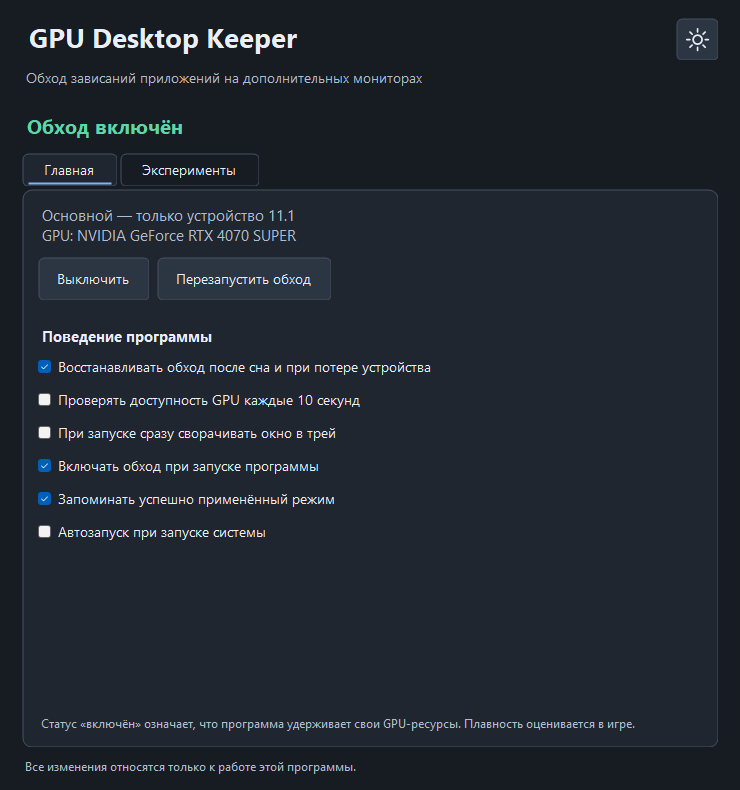
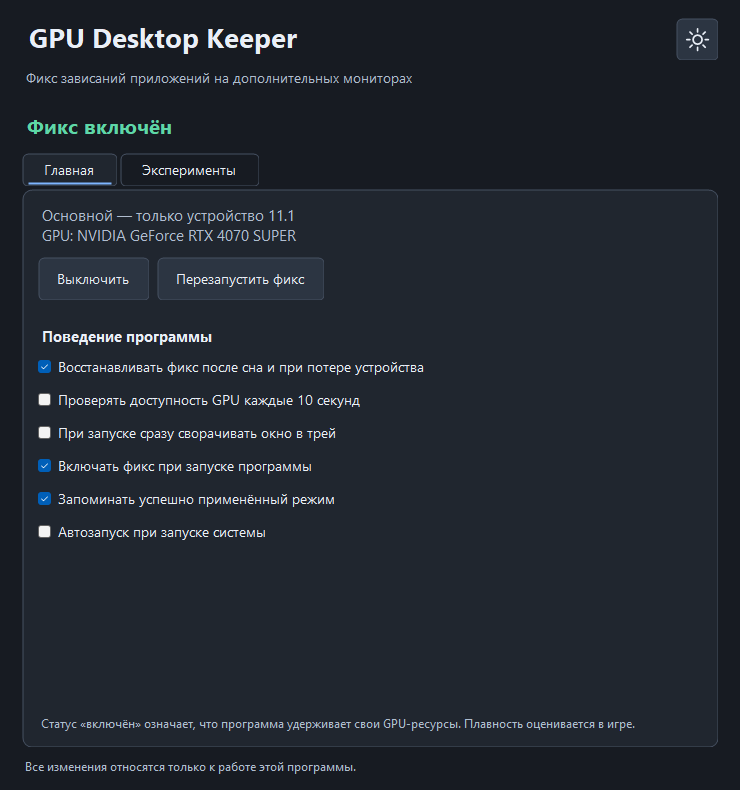
Use фикс wording throughout UI and documentation

diff --git a/KeeperWindow.cs b/KeeperWindow.cs
@@ -55,7 +55,7 @@ namespace GpuDesktopKeeper {
             themeToggle.Anchor=AnchorStyles.Top|AnchorStyles.Right; themeToggle.Margin=new Padding(12,0,0,8);
             themeToggle.AccessibleName="Переключить светлую или тёмную тему";
             header.Controls.Add(themeToggle,1,0);
-            var subtitle=TextLabel("Обход зависаний приложений на дополнительных мониторах",10,false);
+            var subtitle=TextLabel("Фикс зависаний приложений на дополнительных мониторах",10,false);
             header.Controls.Add(subtitle,0,1); header.SetColumnSpan(subtitle,2);
             root.Controls.Add(header,0,0);
             status=TextLabel("Запуск…",15,true); status.Margin=new Padding(0,16,0,14);
@@ -69,15 +69,15 @@ namespace GpuDesktopKeeper {
             summary=TextLabel("",11,false); home.Controls.Add(summary);
             var mainButtons=Buttons();
             toggle=MakeButton("Выключить",delegate { Raise(ToggleRequested); });
-            restart=MakeButton("Перезапустить обход",delegate { Raise(RestartRequested); });
+            restart=MakeButton("Перезапустить фикс",delegate { Raise(RestartRequested); });
             mainButtons.Controls.Add(toggle); mainButtons.Controls.Add(restart);
             home.Controls.Add(mainButtons);
             var settingsTitle=TextLabel("Поведение программы",11,true); settingsTitle.Margin=new Padding(0,14,0,6);
             home.Controls.Add(settingsTitle);
-            autoRecover=Check("Восстанавливать обход после сна и при потере устройства",preferences.AutoRecover);
+            autoRecover=Check("Восстанавливать фикс после сна и при потере устройства",preferences.AutoRecover);
             watchDevice=Check("Проверять доступность GPU каждые 10 секунд",preferences.WatchDevice);
             startMinimized=Check("При запуске сразу сворачивать окно в трей",preferences.StartMinimized);
-            startEnabled=Check("Включать обход при запуске программы",preferences.StartEnabled);
+            startEnabled=Check("Включать фикс при запуске программы",preferences.StartEnabled);
             rememberMode=Check("Запоминать успешно применённый режим",preferences.RememberMode);
             startWithWindows=Check("Автозапуск при запуске системы",false);
             startWithWindows.Enabled=false;
@@ -264,7 +264,7 @@ namespace GpuDesktopKeeper {
             using(var window=new KeeperWindow(new Preferences())) {
                 window.Text="GPU Desktop Keeper "+Program.Version+" — проверка интерфейса";
                 engine.Enable(Modes.Default,"live preview with fake GPU");
-                window.RefreshState(engine,"Обход включён",false);
+                window.RefreshState(engine,"Фикс включён",false);
                 Application.Run(window);
             }
             return 0;
@@ -276,7 +276,7 @@ namespace GpuDesktopKeeper {
             using(var engine=new KeeperEngine(mode=>new PreviewLease(mode),delegate { }))
             using(var window=new KeeperWindow(new Preferences {DarkTheme=dark})) {
                 engine.Enable(Modes.Default,"preview with fake GPU");
-                window.RefreshState(engine,"Обход включён",false);
+                window.RefreshState(engine,"Фикс включён",false);
                 window.RefreshStartup(new StartupState());
                 // Render the client panel detached from the invisible Form. No desktop window,
                 // tray icon, real GPU device or SystemEvents subscription is created here.
@@ -294,12 +294,12 @@ namespace GpuDesktopKeeper {
                         }
                     }
                     engine.Disable("preview off"); window.tabs.SelectedIndex=0;
-                    window.RefreshState(engine,"Обход выключен",false);
+                    window.RefreshState(engine,"Фикс выключен",false);
                     using(var image=new Bitmap(surface.Width,surface.Height)) {
                         surface.DrawToBitmap(image,new Rectangle(Point.Empty,image.Size)); image.Save(Path.Combine(Storage.Folder,"preview-off"+suffix+".png"));
                     }
                     engine.Enable(Modes.Default,"preview with fake GPU");
-                    window.RefreshState(engine,"Обход включён",false);
+                    window.RefreshState(engine,"Фикс включён",false);
                     window.tabs.SelectedIndex=1;
                     window.RefreshState(engine,"Восстановление: попытка 1 из 3",true);
                     using(var image=new Bitmap(surface.Width,surface.Height)) {

diff --git a/Program.cs b/Program.cs
@@ -144,7 +144,7 @@ namespace GpuDesktopKeeper {
             trayStatus=new ToolStripMenuItem(); trayStatus.Enabled=false;
             trayToggle=new ToolStripMenuItem(); trayToggle.Click+=delegate { Toggle(); };
             var show=new ToolStripMenuItem("Открыть"); show.Click+=delegate { ShowWindow(); };
-            var restart=new ToolStripMenuItem("Перезапустить обход"); restart.Click+=delegate { Restart(); };
+            var restart=new ToolStripMenuItem("Перезапустить фикс"); restart.Click+=delegate { Restart(); };
             var exit=new ToolStripMenuItem("Выход"); exit.Click+=delegate { ExitThread(); };
             menu.Items.AddRange(new ToolStripItem[]{trayStatus,show,trayToggle,restart,new ToolStripSeparator(),exit});
             Themes.Menu(menu,preferences.DarkTheme);
@@ -261,7 +261,7 @@ namespace GpuDesktopKeeper {
         }
         private void Update() {
             if(disposed) return;
-            string state=engine.Active ? "Обход включён" : engine.DesiredEnabled ? "Не удалось включить" : "Обход выключен";
+            string state=engine.Active ? "Фикс включён" : engine.DesiredEnabled ? "Не удалось включить" : "Фикс выключен";
             if(recoveryTimer.Enabled) state="Восстановление: попытка "+(recoveryAttempt+1)+" из 3";
             trayStatus.Text=state;
             trayToggle.Text=engine.DesiredEnabled ? "Выключить" : "Включить";

diff --git a/FlydigiNotice.cs b/FlydigiNotice.cs
@@ -23,7 +23,7 @@ namespace GpuDesktopKeeper {
             panel.RowStyles.Add(new RowStyle(SizeType.Percent,100));
             panel.RowStyles.Add(new RowStyle(SizeType.AutoSize));
             panel.RowStyles.Add(new RowStyle(SizeType.AutoSize));
-            panel.Controls.Add(new Label {Text="Flydigi может мешать работе обхода",AutoSize=true,Dock=DockStyle.Fill,Font=new Font(Font,FontStyle.Bold),Margin=new Padding(0,0,0,12)},0,0);
+            panel.Controls.Add(new Label {Text="Flydigi может мешать работе фикса",AutoSize=true,Dock=DockStyle.Fill,Font=new Font(Font,FontStyle.Bold),Margin=new Padding(0,0,0,12)},0,0);
             panel.Controls.Add(new Label {Text="Flydigi Space Station может негативно влиять на этот фикс. Если лаги возвращаются, полностью закрой Flydigi через его значок в трее.",AutoSize=true,Dock=DockStyle.Fill,Margin=new Padding(0,0,0,12)},0,1);
             hide=new CheckBox {Text="Скрывать при последующих запусках",AutoSize=true,Dock=DockStyle.Fill,Margin=new Padding(4,0,0,12)};
             panel.Controls.Add(hide,0,2);

diff --git a/RELEASE_NOTES.md b/RELEASE_NOTES.md
@@ -1,8 +1,8 @@
 # GPU Desktop Keeper 1.0
 
-Первый публичный выпуск утилиты для обхода рывков фоновых приложений на дополнительных мониторах при высокой игровой нагрузке на GPU.
+Первый публичный выпуск утилиты для фикса рывков фоновых приложений на дополнительных мониторах при высокой игровой нагрузке на GPU.
 
-Обход основан на удержании собственного аппаратного Direct3D 11 устройства feature level 11.1. Основной режим не создаёт вспомогательных буферов и не отправляет постоянную GPU-нагрузку. Эффект проверен на одной конфигурации Windows 11/NVIDIA; точный механизм внутри драйвера не установлен, результат на других системах не гарантируется.
+Фикс основан на удержании собственного аппаратного Direct3D 11 устройства feature level 11.1. Основной режим не создаёт вспомогательных буферов и не отправляет постоянную GPU-нагрузку. Эффект проверен на одной конфигурации Windows 11/NVIDIA; точный механизм внутри драйвера не установлен, результат на других системах не гарантируется.
 
 ## Возможности
 

diff --git a/.github/ISSUE_TEMPLATE/bug_report.md b/.github/ISSUE_TEMPLATE/bug_report.md
@@ -1,6 +1,6 @@
 ---
 name: Ошибка или отсутствие эффекта
-about: Поведение программы и воспроизводимость обхода
+about: Поведение программы и воспроизводимость фикса
 title: ''
 labels: ''
 assignees: ''
@@ -17,7 +17,7 @@ assignees: ''
 
 ### Как воспроизвести
 
-Опишите сцену и фоновые приложения. Сравните тот же сценарий при игре в фокусе с включённым и выключенным обходом. Отличайте оценку на глаз от показаний инструмента.
+Опишите сцену и фоновые приложения. Сравните тот же сценарий при игре в фокусе с включённым и выключенным фиксом. Отличайте оценку на глаз от показаний инструмента.
 
 ### Ожидаемое и фактическое поведение
 

diff --git a/CHANGELOG.md b/CHANGELOG.md
@@ -2,7 +2,7 @@
 
 ## 1.0 — 2026-10-09
 
-Первый публичный выпуск. Основан на проверенной локальной версии 2.3.8; механизм обхода сохранён.
+Первый публичный выпуск. Основан на проверенной локальной версии 2.3.8; механизм фикса сохранён.
 
 - Удержание аппаратного Direct3D 11 устройства feature level 11.1 и immediate context.
 - Основной режим без вспомогательных буферов; отдельные экспериментальные режимы.
